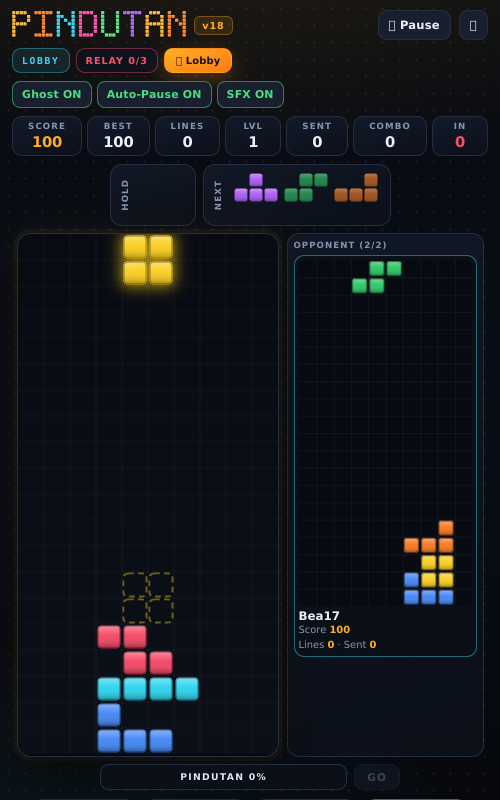
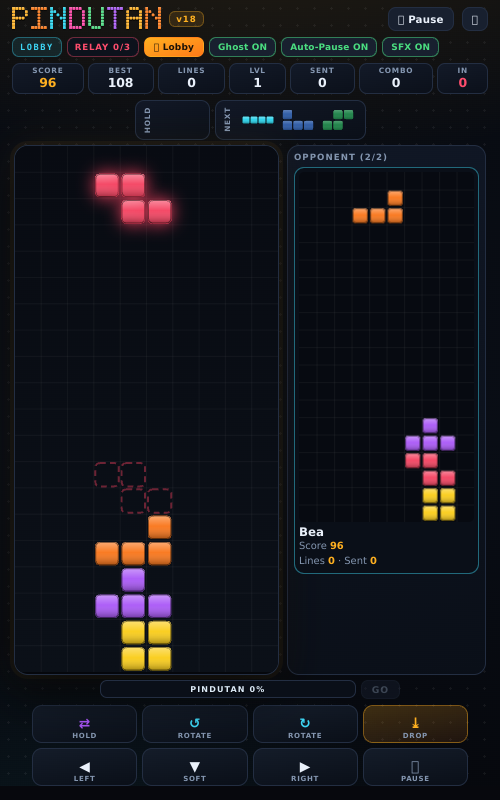
pindutan v18: slimmer buttons, the board gets the room
- Hold/Next tray: one 40 px strip, pieces drawn trimmed so they stay big
- pills + Ghost/Auto-pause/SFX on one row; smaller chips, tabs, charge bar, touch pad
- board fits the window in every mode, touch pad always kept on screen
  (500x800 solo: 208 -> 250 px wide, no scrolling)
- VS CPU uses the side-by-side row: the CPU board on the right at 70%
- lobby play cards and invite pill a touch slimmer

diff --git a/labs/pindutan-v18.html b/labs/pindutan-v18.html
@@ -623,7 +623,24 @@
     body.battle .play-bar,
     body.battle footer { display: none; }
 
-    body.battle .stage { flex-direction: row; align-items: stretch; justify-content: center; gap: 8px; }
+    body.battle .stage,
+    body.cpu .stage { flex-direction: row; align-items: stretch; justify-content: center; gap: 8px; }
+    body.cpu .board-wrapper { flex: none; }
+
+    /* VS CPU uses the same row: the CPU's board on the right, a size smaller */
+    body.cpu .bot-panel.on {
+      flex: none;
+      flex-direction: column;
+      align-items: stretch;
+      justify-content: flex-start;
+      gap: 5px;
+      max-width: none;
+      padding: 6px;
+    }
+    body.cpu .bot-panel canvas { width: 100%; height: auto; }
+    body.cpu .bot-meta { flex: none; font-size: 0.56rem; line-height: 1.45; cursor: pointer; }
+    body.cpu .bot-meta b { font-size: 0.64rem; }
+    body.cpu .bot-panel button { width: 100%; padding: 5px 6px; font-size: 0.56rem; }
     body.battle .board-wrapper { flex: none; }
 
     body.battle .opponents-panel.on {
@@ -973,6 +990,52 @@
     .touch-controls button.hard {
       background: linear-gradient(170deg, rgba(255, 176, 32, 0.22), rgba(255, 122, 24, 0.1));
     }
+
+    /* ================= v18 compact: smaller buttons, the board gets the room ================= */
+    header { padding-top: 7px; gap: 6px; }
+    #logoCanvas { height: 24px; }
+    .version-badge { font-size: 0.54rem; padding: 2px 6px; }
+    .icon-btn { padding: 5px 9px; font-size: 0.64rem; border-radius: 8px; }
+
+    .ctrl-row { display: flex; flex-wrap: wrap; gap: 5px; align-items: center; }
+    .ctrl-row .top-pills { gap: 5px; }
+    .pill { font-size: 0.54rem; padding: 4px 7px; border-radius: 7px; }
+    #lobbyBtn { padding: 4px 9px !important; font-size: 0.56rem !important; border-radius: 7px !important; box-shadow: none; }
+    .settings-bar { gap: 5px; }
+    .settings-bar button { padding: 4px 8px; font-size: 0.56rem; border-radius: 7px; }
+
+    .play-bar { gap: 4px; }
+    .play-bar button { padding: 6px 3px; font-size: 0.56rem; border-radius: 8px; }
+
+    .arena { gap: 5px; padding-top: 6px; }
+    .hud-strip { gap: 4px; }
+    .chip { min-width: 44px; padding: 3px 5px; border-radius: 8px; }
+    .chip h3 { font-size: 0.46rem; margin-bottom: 1px; letter-spacing: 0.1em; }
+    .chip .val { font-size: 0.78rem; }
+
+    /* hold + next: one slim tray instead of two tall boxes */
+    .pods { gap: 5px; }
+    .pod { gap: 6px; padding: 3px 7px; border-radius: 9px; }
+    .pod h3 { font-size: 0.46rem; letter-spacing: 0.1em; }
+    #holdCanvas { width: 44px; height: 32px; }
+    #nextCanvas { width: 120px; height: 32px; }
+
+    .power-wrap { gap: 5px; }
+    .power-meter { height: 18px; border-radius: 7px; }
+    .power-meter span.lbl { font-size: 0.5rem; }
+    #powerBtn { padding: 3px 10px; font-size: 0.58rem; border-radius: 7px; }
+
+    .touch-controls { gap: 5px; padding-top: 6px; }
+    .touch-controls button { height: 38px; font-size: 0.86rem; border-radius: 10px; }
+    .touch-controls button small { font-size: 0.44rem; margin-top: 0; }
+
+    .bot-panel { padding: 6px; gap: 8px; }
+
+    /* lobby sheet: slimmer play cards and invite pill */
+    .play-card { padding: 8px 10px; border-radius: 11px; font-size: 0.66rem; }
+    .play-card canvas { width: 18px; height: 18px; }
+    .invite-wide { padding: 10px 10px; font-size: 0.6rem; }
+    .pg-btn { padding: 5px 9px; }
   </style>
 </head>
 <body>
@@ -1003,10 +1066,19 @@
       <button class="icon-btn" id="lockBtn">🔒</button>
     </div>
 
+    <div class="ctrl-row">
     <div class="top-pills">
       <span class="pill room live" id="roomPill">LOBBY</span>
       <span class="pill relay" id="relayPill">RELAY 0/3</span>
       <button class="primary" id="lobbyBtn" style="padding:6px 11px;font-size:0.62rem;border-radius:9px;">🌐 Lobby</button>
+    </div>
+
+
+    <div class="settings-bar">
+      <button id="toggleGhost" class="on">Ghost ON</button>
+      <button id="toggleAutoPause" class="on">Auto-Pause ON</button>
+      <button id="toggleSfx" class="on">SFX ON</button>
+    </div>
     </div>
 
     <div class="play-bar" id="playBar">
@@ -1014,12 +1086,6 @@
       <button data-play="bot">VS CPU</button>
       <button data-play="duel">1v1</button>
       <button data-play="group">GROUP</button>
-    </div>
-
-    <div class="settings-bar">
-      <button id="toggleGhost" class="on">Ghost ON</button>
-      <button id="toggleAutoPause" class="on">Auto-Pause ON</button>
-      <button id="toggleSfx" class="on">SFX ON</button>
     </div>
   </header>
 
@@ -1109,11 +1175,11 @@
     <div class="pods">
       <div class="pod" id="playerLeftStats">
         <h3>Hold</h3>
-        <canvas id="holdCanvas" width="96" height="96"></canvas>
+        <canvas id="holdCanvas" width="132" height="96"></canvas>
       </div>
       <div class="pod" id="playerRightStats">
         <h3>Next</h3>
-        <canvas id="nextCanvas" width="288" height="96"></canvas>
+        <canvas id="nextCanvas" width="360" height="96"></canvas>
       </div>
     </div>
 
@@ -1143,6 +1209,16 @@
         </div>
       </div>
     </div>
+
+    <div class="bot-panel" id="botPanel">
+      <canvas id="botCanvas" width="160" height="320"></canvas>
+      <div class="bot-meta" id="botMetaBox" title="tap to change level">
+        CPU <b id="botName">INTERMEDIATE</b><br />
+        <span id="botLine">Score 0 · Lines 0 · Lv 1</span><br />
+        <span class="hint">tap to change level</span>
+      </div>
+      <button id="botRestart">Restart</button>
+    </div>
     </div>
 
     <div class="power-wrap">
@@ -1153,15 +1229,6 @@
       <button id="powerBtn" disabled>GO</button>
     </div>
 
-    <div class="bot-panel" id="botPanel">
-      <canvas id="botCanvas" width="80" height="160"></canvas>
-      <div class="bot-meta" id="botMetaBox" title="tap to change level">
-        CPU <b id="botName">INTERMEDIATE</b><br />
-        <span id="botLine">Score 0 · Lines 0 · Lv 1</span><br />
-        <span class="hint">tap here to change level</span>
-      </div>
-      <button id="botRestart">Restart</button>
-    </div>
 
   </main>
 
@@ -1910,22 +1977,36 @@
       ctx.restore();
     }
 
+    /* the filled part of a shape, without its empty rows and columns */
+    function trimmedShape(type) {
+      const mat = SHAPES[type];
+      let r0 = 99, r1 = -1, c0 = 99, c1 = -1;
+      mat.forEach((row, r) => row.forEach((v, c) => {
+        if (!v) return;
+        r0 = Math.min(r0, r); r1 = Math.max(r1, r);
+        c0 = Math.min(c0, c); c1 = Math.max(c1, c);
+      }));
+      return { mat, r0, c0, rows: r1 - r0 + 1, cols: c1 - c0 + 1 };
+    }
+
+    function drawShapeIn(context, type, x, y, w, h, pad) {
+      const t = trimmedShape(type);
+      const size = Math.min((w - pad * 2) / t.cols, (h - pad * 2) / t.rows, h / 2.4);
+      const offX = x + (w - t.cols * size) / 2;
+      const offY = y + (h - t.rows * size) / 2;
+      for (let r = 0; r < t.rows; r++) {
+        for (let c = 0; c < t.cols; c++) {
+          if (t.mat[t.r0 + r][t.c0 + c]) drawCell(context, offX + c * size, offY + r * size, size, COLORS[type]);
+        }
+      }
+    }
+
     function drawMiniPiece(context, type) {
       const w = context.canvas.width;
       const h = context.canvas.height;
       context.clearRect(0, 0, w, h);
       if (!type) return;
-      const mat = SHAPES[type];
-      const cells = mat.length;
-      const pad = Math.max(3, w * 0.05);
-      const size = Math.min((w - pad * 2) / cells, (h - pad * 2) / cells);
-      const offX = (w - cells * size) / 2;
-      const offY = (h - cells * size) / 2;
-      for (let r = 0; r < cells; r++) {
-        for (let c = 0; c < cells; c++) {
-          if (mat[r][c]) drawCell(context, offX + c * size, offY + r * size, size, COLORS[type]);
-        }
-      }
+      drawShapeIn(context, type, 0, 0, w, h, Math.max(4, w * 0.08));
     }
 
     function drawQueue() {
@@ -1936,18 +2017,9 @@
       const order = queue.slice(0, MAX_QUEUE);
       if (current && order.length < MAX_QUEUE) order.unshift(current.type);
       order.slice(0, MAX_QUEUE).forEach((type, i) => {
-        const mat = SHAPES[type];
-        const cells = mat.length;
-        const size = Math.min((slot - 10) / cells, (h - 10) / cells);
-        const offX = i * slot + (slot - cells * size) / 2;
-        const offY = (h - cells * size) / 2;
         nextCtx.save();
         if (i > 0) nextCtx.globalAlpha = 0.62;
-        for (let r = 0; r < cells; r++) {
-          for (let c = 0; c < cells; c++) {
-            if (mat[r][c]) drawCell(nextCtx, offX + c * size, offY + r * size, size, COLORS[type]);
-          }
-        }
+        drawShapeIn(nextCtx, type, i * slot, 0, slot, h, Math.max(4, slot * 0.1));
         nextCtx.restore();
       });
     }
@@ -1955,30 +2027,36 @@
     /* ---------- responsive canvas ---------- */
     /* In a human battle the board sits beside the rivals' column, so its size comes from
        what the window has left: the height under the header, and the width of two boards
-       (yours, and theirs at 70%). The touch pad is only counted on touch screens. */
+       (yours, and theirs at 70%). Outside a battle the same fit sizes the solo / CPU board.
+       The touch pad, when it shows, always stays on screen. */
     const RIVAL_SCALE = 0.7;
 
     function fitBattleBoard() {
       const panel = document.getElementById("opponentsPanel");
-      if (!document.body.classList.contains("battle")) {
-        boardWrapper.style.width = "";
-        if (panel) panel.style.width = "";
-        return;
-      }
+      const battle = document.body.classList.contains("battle");
+      const cpu = document.body.classList.contains("cpu");
+      const side = battle || cpu;
+      const sidePanel = battle ? panel : cpu ? document.getElementById("botPanel") : null;
+      if (panel && panel !== sidePanel) panel.style.width = "";
+      const botEl = document.getElementById("botPanel");
+      if (botEl && botEl !== sidePanel) botEl.style.width = "";
+      if (boardWrapper.style.display === "none") return;          /* watching: no board of mine */
       const stage = document.getElementById("stage");
       const arena = document.querySelector(".arena");
       const power = document.querySelector(".power-wrap");
       const pad = document.querySelector(".touch-controls");
-      const coarse = window.matchMedia && window.matchMedia("(pointer: coarse)").matches;
-      const padH = coarse && pad && getComputedStyle(pad).display !== "none" ? pad.offsetHeight + 4 : 0;
+      /* the touch pad shows under 700 px wide; keep it on screen, mouse or finger */
+      const padH = pad && getComputedStyle(pad).display !== "none" ? pad.offsetHeight + 4 : 0;
       const top = stage.getBoundingClientRect().top + window.scrollY;
-      const below = (power ? power.offsetHeight : 26) + 7 + padH + 10;
+      const below = (power ? power.offsetHeight : 20) + 5 + padH + 10;
       const byHeight = (window.innerHeight - top - below) / 2;
       const inner = arena.clientWidth - 24;                       /* arena padding */
-      const byWidth = (inner - 8 - 14) / (1 + RIVAL_SCALE);       /* gap + panel padding */
-      const w = Math.floor(Math.max(130, Math.min(byHeight, byWidth, 320)));
+      const byWidth = side
+        ? (inner - 8 - 14) / (1 + RIVAL_SCALE)                    /* gap + panel padding */
+        : Math.min(inner, 300);
+      const w = Math.floor(Math.max(130, Math.min(byHeight, byWidth, side ? 320 : 300)));
       boardWrapper.style.width = w + "px";
-      if (panel) panel.style.width = Math.floor(w * RIVAL_SCALE + 14) + "px";
+      if (sidePanel) sidePanel.style.width = Math.floor(w * RIVAL_SCALE + 14) + "px";
     }
 
     function resizeBoard() {
@@ -3138,7 +3216,10 @@
       bot.dropT = 0;
       bot.moveT = 0;
       bot.placed = 0;
+      const panelWasOff = !document.getElementById("botPanel").classList.contains("on");
       document.getElementById("botPanel").classList.add("on");
+      document.body.classList.add("cpu");
+      if (panelWasOff) resizeBoard();          /* the CPU column takes width from the board */
       paintCpuLevels();
       botMeta();
       botSpawn();
@@ -3147,7 +3228,10 @@
 
     function botStop() {
       bot.on = false;
+      const panelWasOn = document.getElementById("botPanel").classList.contains("on");
       document.getElementById("botPanel").classList.remove("on");
+      document.body.classList.remove("cpu");
+      if (panelWasOn) resizeBoard();
     }
 
     function botMeta() {

diff --git a/README.md b/README.md
@@ -46,7 +46,13 @@ characters on a new `pindutan/v17/` topic, so old v16 tabs stay in their own roo
 **Pindutan v18 — side by side** (`labs/pindutan-v18.html`, the launcher card opens it; v17 stays as the fallback and shares the same lobby). In a human battle your board is on the left and your rivals are on the
 right at 70% of its size: one big board in a 1v1, a 2-column grid for 2–4 rivals, 3 columns for 5–6. The
 board sizes itself to the window, so at 500×800 (or a 500×690 Chrome window) everything is visible without
-scrolling. On touch screens the touch pad is counted too. Solo and VS CPU keep the old stacked layout.
+scrolling.
+
+**Pindutan v18 — slimmer buttons.** The Hold/Next tray is one 40 px strip (pieces drawn trimmed, so they stay
+big), the pills and the Ghost / Auto-pause / SFX toggles share one row, and the score chips, mode tabs, charge
+bar and touch pad are all smaller. The board takes the space: at 500×800 it grows from 208 to 250 px wide in
+solo, and everything (touch pad included) fits without scrolling. VS CPU now uses the side-by-side row too,
+with the CPU's board on the right.
 
 **Aurora v4 — FreeModel only.** One platform, `https://freemodel.in/v1`, default `deepseek-v4.1-flash`.
 Every other provider name is gone from the page and a test greps for 13 of them. A key inside an HTML file
